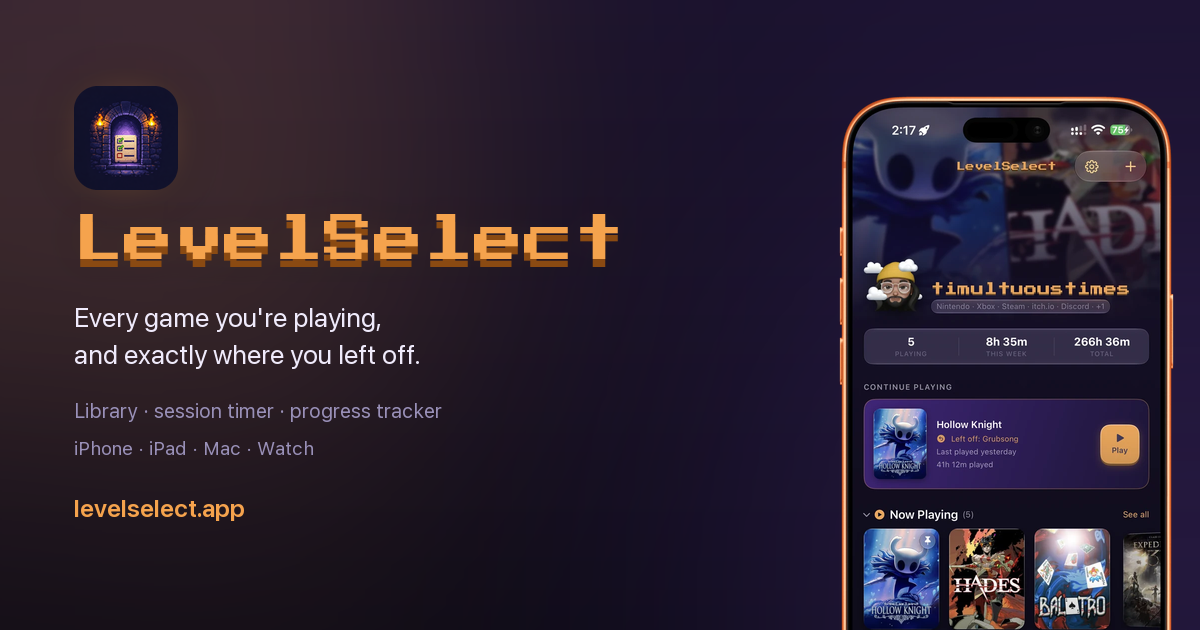
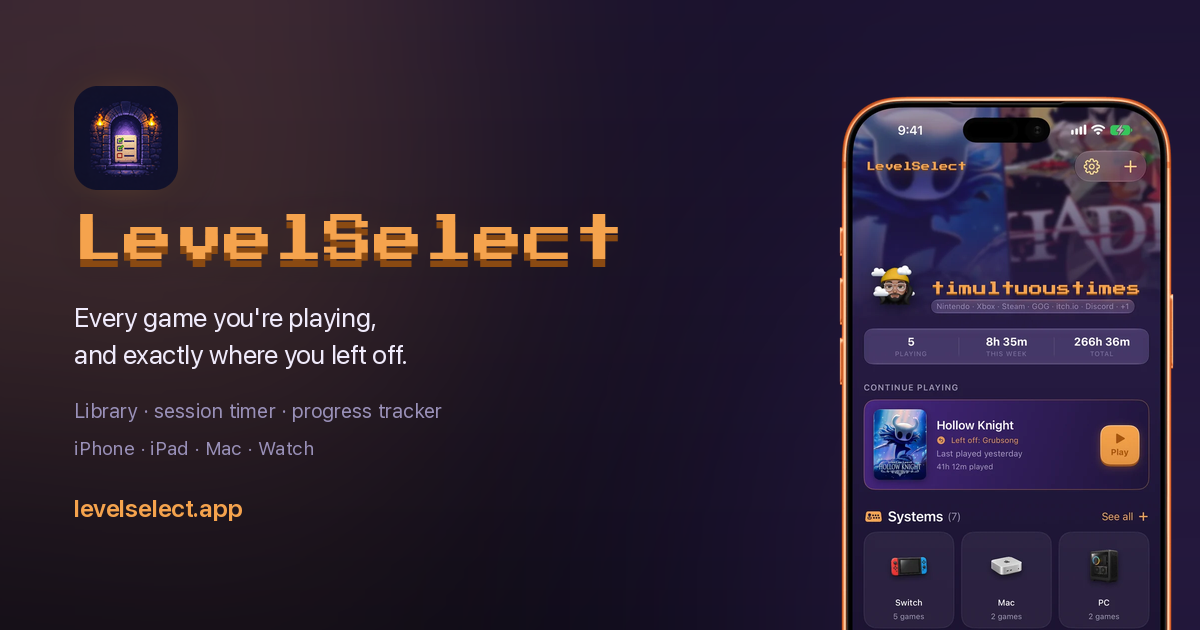
Social images use the build 39 Home and iPad shots

diff --git a/site/scripts/make-social-images.py b/site/scripts/make-social-images.py
@@ -45,8 +45,9 @@ MUTED       = (153, 144, 184)
 # Build 36 renamed the fourth tab and gave the app the Journal, so the
 # build-33 capture showed a tab bar that no longer exists — on the one image
 # that represents the app everywhere it is linked.
-PHONE_SHOT = "iphone-36-home-profile.webp"
-IPAD_SHOT  = "ipad-01-split-tracker.webp"
+# Build 39: News replaced Wishlist in the tab bar and search got its circle.
+PHONE_SHOT = "iphone-39-home.webp"
+IPAD_SHOT  = "ipad-39-split-tracker.webp"
 
 PIXEL = str(PUB / "assets" / "PressStart2P-Regular.ttf")
 SANS  = "/System/Library/Fonts/SFNS.ttf"
